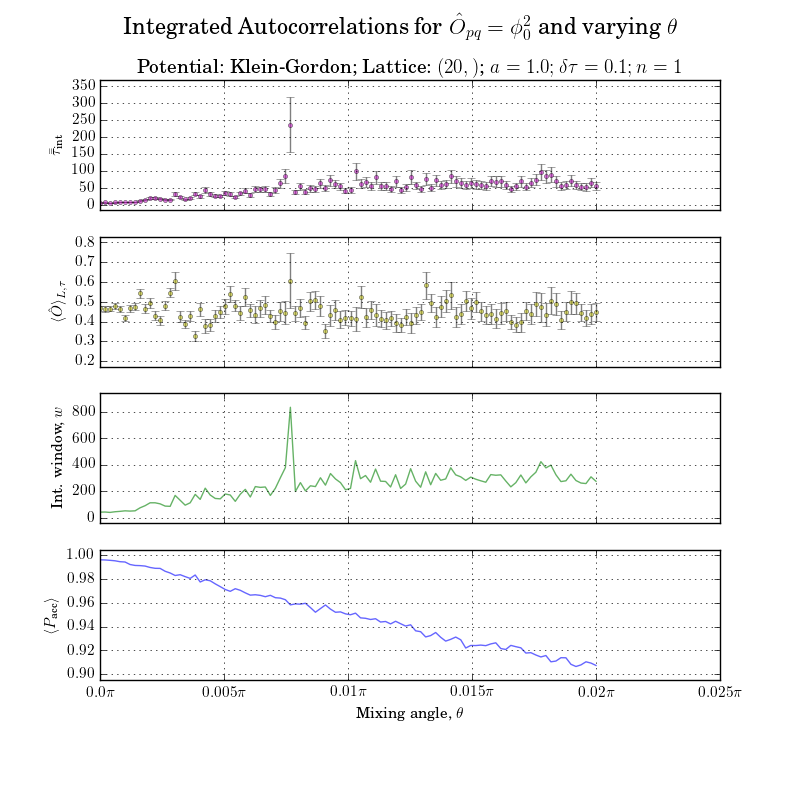
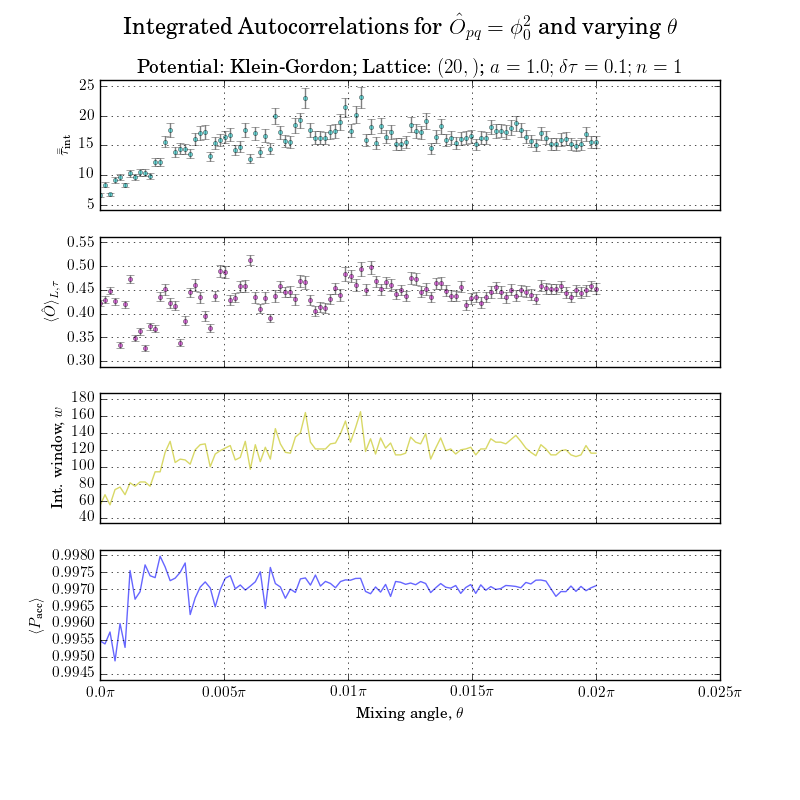
issue:#43 - recalculated integrated autocorrelations to match theory
Former-commit-id: 9f59ee7f40c80672531874c4f15e4958ea21d77b

diff --git a/results/common/intac.py b/results/common/intac.py
@@ -56,9 +56,9 @@ def plot(x, lines, subtitle, op_name, save):
                 ax[k].plot(x, y, c=c, lw=1., alpha=0.6, label=label)
             else:
                 y = np.asarray(y); err = np.asarray(err)
-                # ax[k].fill_between(x, y-err, y+err, color=c, alpha=0.1)
-                ax[k].errorbar(x, y, yerr=err, c=c, ecolor='k', ms=3, fmt='o', alpha=0.5,
-                    label=label)
+                ax[k].fill_between(x, y-err, y+err, color=c, alpha=0.9)
+                # ax[k].errorbar(x, y, yerr=err, c=c, ecolor='k', ms=3, fmt='o', alpha=0.5,
+                #     label=label)
     # Fix the limits so the plots have nice room 
     for a in ax:                            # 5% extra room at top & add legend
         # xi,xf = a.get_xlim()
@@ -114,23 +114,19 @@ def main(x0, pot, file_name, n_samples, n_burn_in, angle_fracs,
         
         # get parameters generated
         p = c.model.p_acc           # get acceptance rates at each M-H step
-        xx = np.average(cfn)        # get average of the function run over the samples
-        return cfn, xx, p
+        
+        # Calculating integrated autocorrelations
+        ans = errors.uWerr(cfn)
+        xx, f_diff, _, itau, itau_diff, itaus, _ = ans
+        w = errors.getW(itau, itau_diff, n=cfn.shape[0])
+        out = itau, itau_diff, f_diff, w
+        return xx, p, itau, itau_diff, f_diff, w
     
     ans = prll_map(coreFunc, zip(range(angle_fracs.size), angls, n_samples), verbose=1-explicit_prog)
-    cfn_lst, xx_lst, p_lst = zip(*ans)          # unpack from multiprocessing
+    
+    # unpack from multiprocessing
+    xx_lst, p_lst, itau_lst, itau_diffs_lst, f_diff_lst, w_lst = zip(*ans)
     print '\n'*angle_fracs.size*explicit_prog         # hack to avoid overlapping!
-    
-    print '\n > Calculating integrated autocorrelations...\n'
-    def coreFunc2(cfn):
-        ans = errors.uWerr(cfn)
-        _, f_diff, _, itau, itau_diff, itaus, _ = ans
-        w = errors.getW(itau, itau_diff, n=cfn.shape[0])
-        out = (itau, itau_diff, f_diff, w)
-        return out
-    
-    ans = prll_map(coreFunc2, cfn_lst, verbose=True)
-    itau_lst, itau_diffs_lst, f_diff_lst, w_lst = zip(*ans) # unpack from multiprocessing
     
     print 'Finished Running Model: {}'.format(file_name)
     

diff --git a/results/intacorr_xx_ghmc_kg_0p00t2p00.py b/results/intacorr_xx_ghmc_kg_0p00t2p00.py
@@ -13,11 +13,13 @@ x0 = np.random.random((n,)*dim)
 spacing    = 1.
 step_size  = .1
 rand_steps = True
-points     = 100
-n_steps    = 20
+points     = 50
+n_steps    = 10
 
-n_samples, n_burn_in = 200000, 20
-angle_fracs = np.linspace(0, 2., points, True)
+n_samples, n_burn_in = 100000, 20
+h_res = np.linspace(-0.15, 0.15, 100, True)
+l_res = np.linspace(0.151, 0.85, points, True)
+angle_fracs = np.concatenate([h_res,l_res,h_res+1,l_res+1,h_res+2])
 
 opFn = lambda samples: twoPoint(samples, separation=0)
 op_name = r'$\hat{O}_{pq} = \phi_0^2$'
@@ -28,4 +30,4 @@ if '__main__' == __name__:
         rand_steps = rand_steps, step_size = step_size, n_steps = n_steps,
         opFn = opFn, op_name=op_name,
         angle_fracs = angle_fracs,
-        save = True)
+        save = False)

diff --git a/results/intacorr_xx_khmc_kg_0p00t2p00.py b/results/intacorr_xx_khmc_kg_0p00t2p00.py
@@ -13,10 +13,12 @@ x0 = np.random.random((n,)*dim)
 spacing    = 1.
 step_size  = .1
 rand_steps = True
-points     = 100
+points     = 50
 
-n_samples, n_burn_in = 200000, 20
-angle_fracs = np.linspace(0, 2., points, True)
+n_samples, n_burn_in = 100000, 20
+h_res = np.linspace(-0.15, 0.15, 100, True)
+l_res = np.linspace(0.151, 0.85, points, True)
+angle_fracs = np.concatenate([h_res,l_res,h_res+1,l_res+1,h_res+2])
 
 opFn = lambda samples: twoPoint(samples, separation=0)
 op_name = r'$\hat{O}_{pq} = \phi_0^2$'

diff --git a/results/acorr_xx_khmc_kg.py b/results/acorr_xx_khmc_kg.py
@@ -29,7 +29,7 @@ angle_labels = [
 
 separations = range(c_len)
 opFn = lambda samples: twoPoint(samples, separation=0)
-op_name = r'$\hat{O} = \sum_{pq} \Omega \phi_p\phi_q :\Omega = \delta_{p0}\delta{q0}$'
+op_name = r'$\hat{O} = \sum_{pq} \Omega \phi_p\phi_q :\Omega = \delta_{p0}\delta_{q0}$'
 
 if '__main__' == __name__:
     routine.main(x0, pot, file_name,

diff --git a/results/acorr_reload.py b/results/acorr_reload.py
@@ -10,7 +10,7 @@ file_name = 'acorr_xx_khmc_kg'
 dest = 'results/data/other_objs/{}_allPlot.pkl'.format(file_name)
 a = load(dest)
 
-op_name = r'$\hat{O} = \sum_{pq} \Omega \phi_p\phi_q :\Omega = \delta_{p0}\delta{q0}$'
+op_name = r'$\hat{O} = \sum_{pq} \Omega \phi_p\phi_q :\Omega = \delta_{p0}\delta_{q0}$'
 
 a['op_name'] = op_name
 

diff --git a/results/intacorr_reload.py b/results/intacorr_reload.py
@@ -5,7 +5,7 @@ from common.intac import plot
 from common.utils import saveOrDisplay
 
 save = True
-file_name = 'intac_xx_ghmc_kg_0p00t0p50'
+file_name = 'intacorr_xx_ghmc_kg_0p00t2p00'
 
 dest = 'results/data/other_objs/{}_allPlot.pkl'.format(file_name)
 a = load(dest)

diff --git a/results/intacorr_xx_khmc_kg_0p00t0p02.py b/results/intacorr_xx_khmc_kg_0p00t0p02.py
@@ -15,7 +15,7 @@ step_size  = .1
 rand_steps = True
 points     = 100
 
-n_samples, n_burn_in = 20000, 20
+n_samples, n_burn_in = 100000, 20
 angle_fracs = np.linspace(0, .02, points, True)
 
 opFn = lambda samples: twoPoint(samples, separation=0)

diff --git a/results/intacorr_xx_khmc_kg_0p00t0p10.py b/results/intacorr_xx_khmc_kg_0p00t0p10.py
@@ -17,7 +17,7 @@ points     = 100
 angle_fracs = np.linspace(.005, .1, points, True)
 
 n_burn_in = 20
-n_samples = 10000
+n_samples = 100000
 
 opFn = lambda samples: twoPoint(samples, separation=0)
 op_name = r'$\hat{O}_{pq} = \phi_0^2$'
